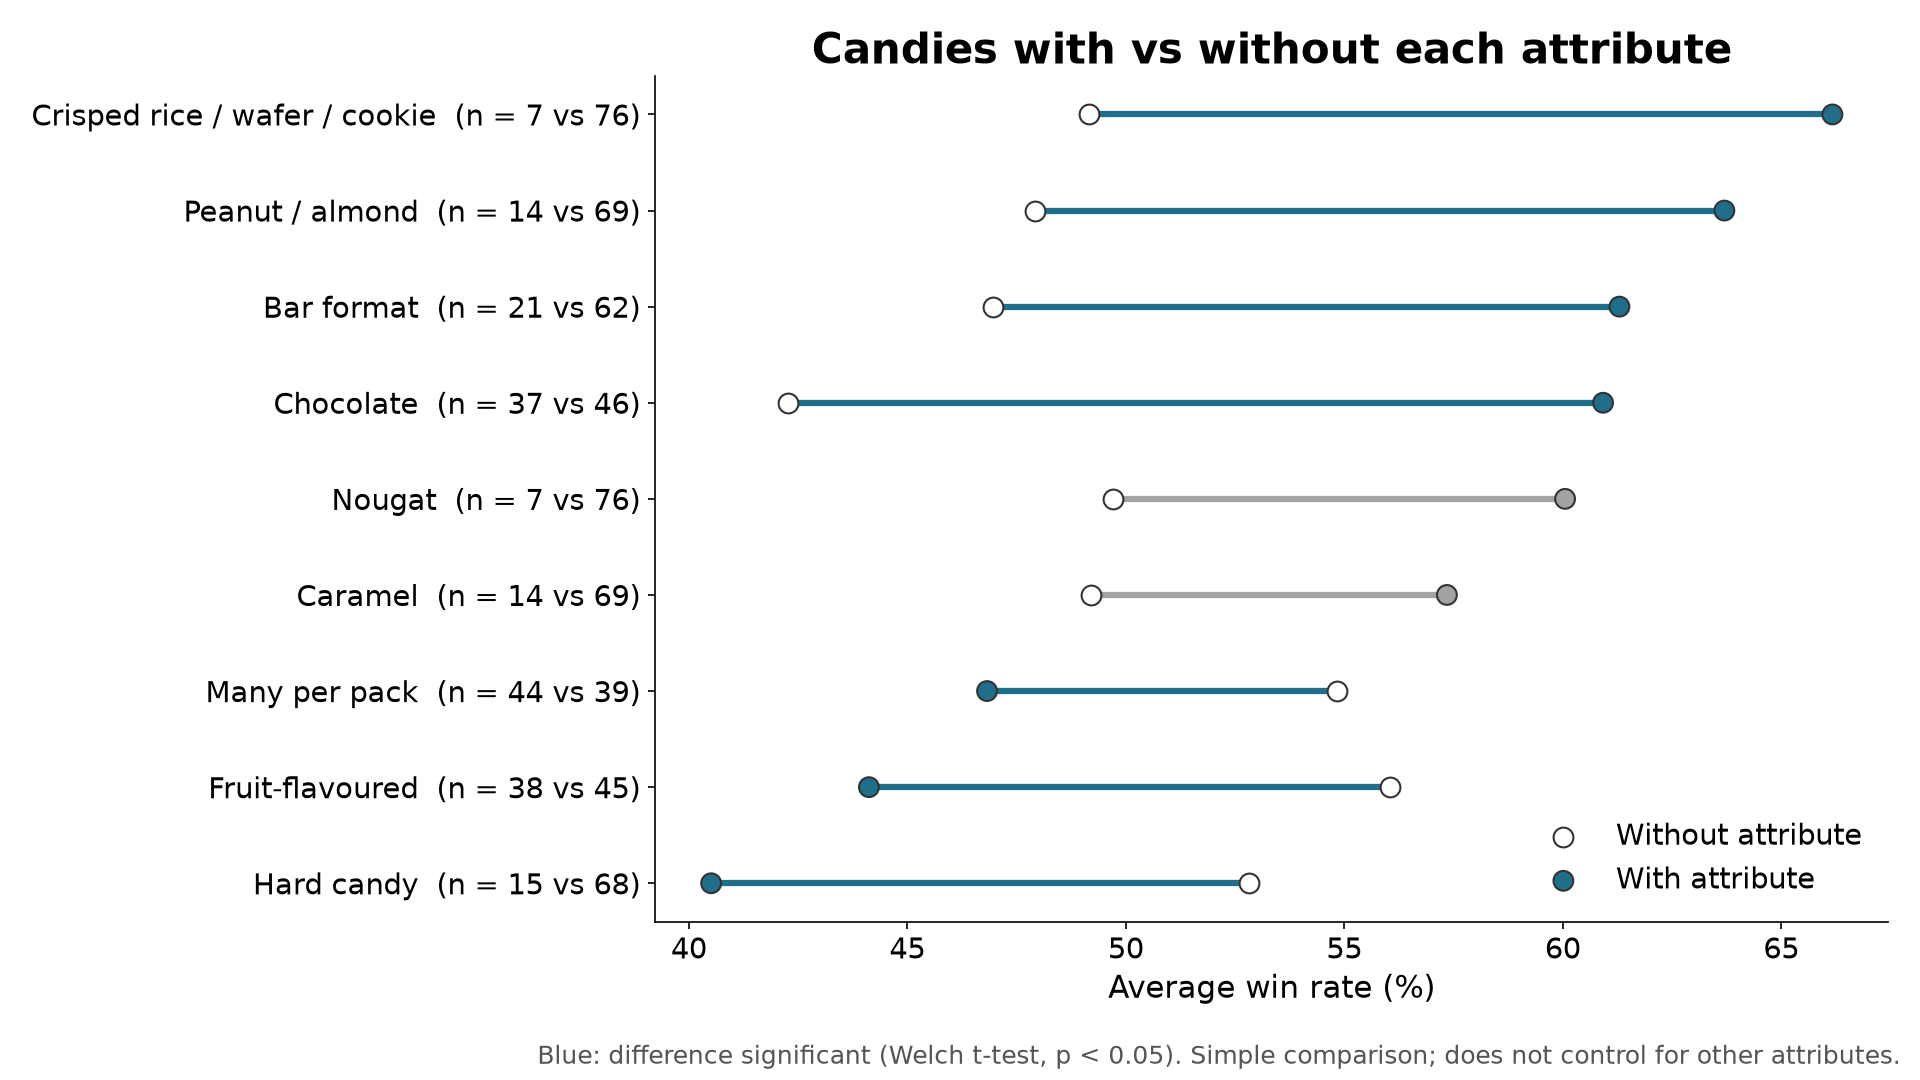
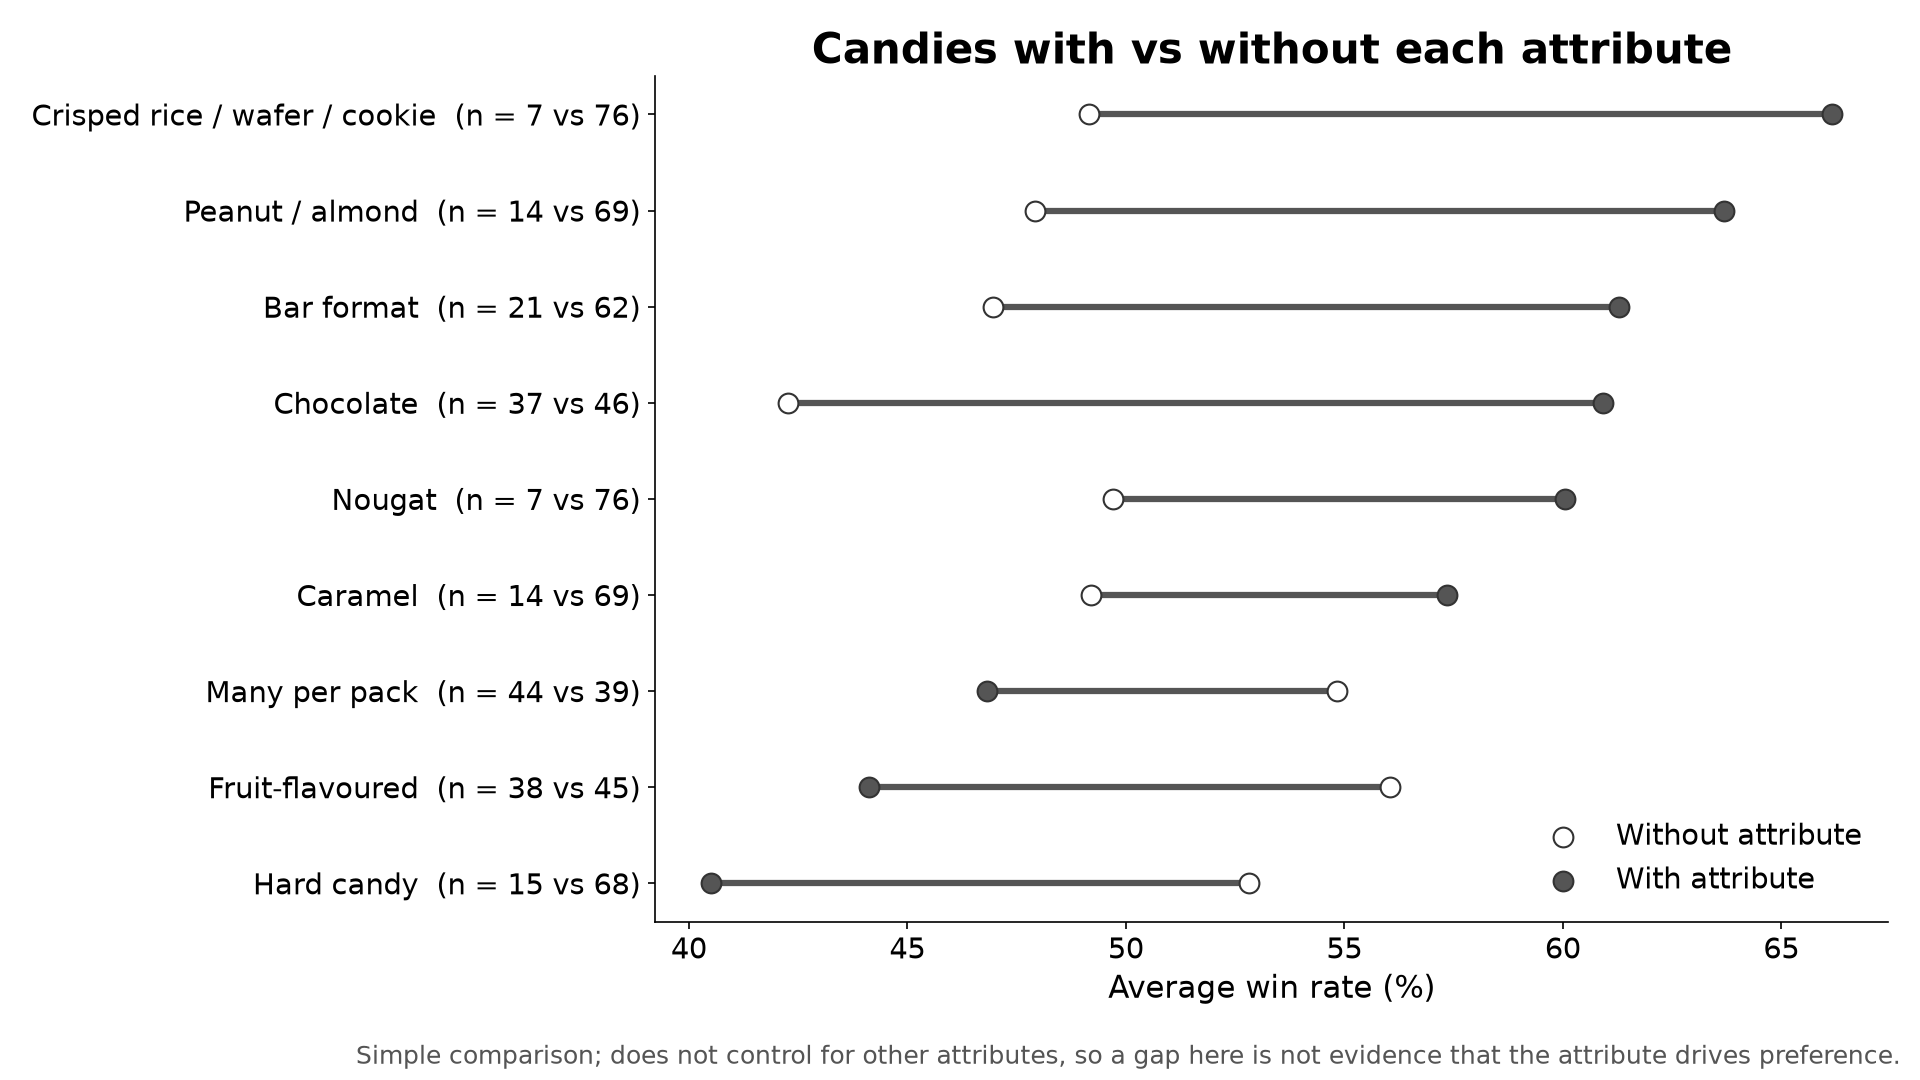
fix: drop significance colouring from the attribute comparison chart
It used the driver blue for unadjusted Welch tests, so seven attributes
looked like drivers and fruity showed as a significant loss, against
the coefficient chart where blue means surviving the Holm correction.

diff --git a/src/candy/figures.py b/src/candy/figures.py
@@ -24,6 +24,7 @@ ACCENT_ORANGE = "#e07b39"
 ACCENT_PURPLE = "#6a4c93"
 ANALYSIS_COLORS = (DRIVER, ACCENT_ORANGE, ACCENT_PURPLE)
 NOT_CLEAR = "#a3a3a3"
+DESCRIPTIVE = "#555555"  # charts that make no significance claim
 
 plt.rcParams.update(
     {
@@ -73,14 +74,16 @@ def coefficient_chart(
     _save(fig, path, top=0.93)
 
 
-def attribute_comparison_chart(rows: pd.DataFrame, alpha: float, path: Path) -> None:
+def attribute_comparison_chart(rows: pd.DataFrame, path: Path) -> None:
     """Average win rate of candies with vs without each attribute.
 
     ``rows`` has one row per attribute (index) with ``mean_with``,
-    ``mean_without``, ``n_with``, ``n_without`` and Welch ``p``.
+    ``mean_without``, ``n_with`` and ``n_without``. Descriptive only: no
+    significance colouring, so it cannot contradict the coefficient chart,
+    where blue means a driver after controlling for the other attributes.
     """
     rows = rows.sort_values("mean_with")
-    colors = [DRIVER if p < alpha else NOT_CLEAR for p in rows["p"]]
+    colors = DESCRIPTIVE
     y = list(range(len(rows)))
 
     fig, ax = plt.subplots(figsize=FIGSIZE, dpi=DPI)
@@ -105,8 +108,8 @@ def attribute_comparison_chart(rows: pd.DataFrame, alpha: float, path: Path) -> 
     ax.legend(loc="lower right", frameon=False)
     _footnote(
         fig,
-        f"Blue: difference significant (Welch t-test, p < {alpha:g}). "
-        "Simple comparison; does not control for other attributes.",
+        "Simple comparison; does not control for other attributes, so a gap here "
+        "is not evidence that the attribute drives preference.",
     )
     _save(fig, path)
 

diff --git a/src/candy/pipeline.py b/src/candy/pipeline.py
@@ -238,7 +238,7 @@ def run(raw_csv: Path, gummy_csv: Path, out_dir: Path, seed: int = SEED) -> dict
         _reference_group_note(chocolate_vs_fruity),
         figures / "coefficients.png",
     )
-    attribute_comparison_chart(comparison, ALPHA, figures / "attribute_comparison.png")
+    attribute_comparison_chart(comparison, figures / "attribute_comparison.png")
     hc3 = main_model.effects_in_points()
     robustness_chart(
         {
